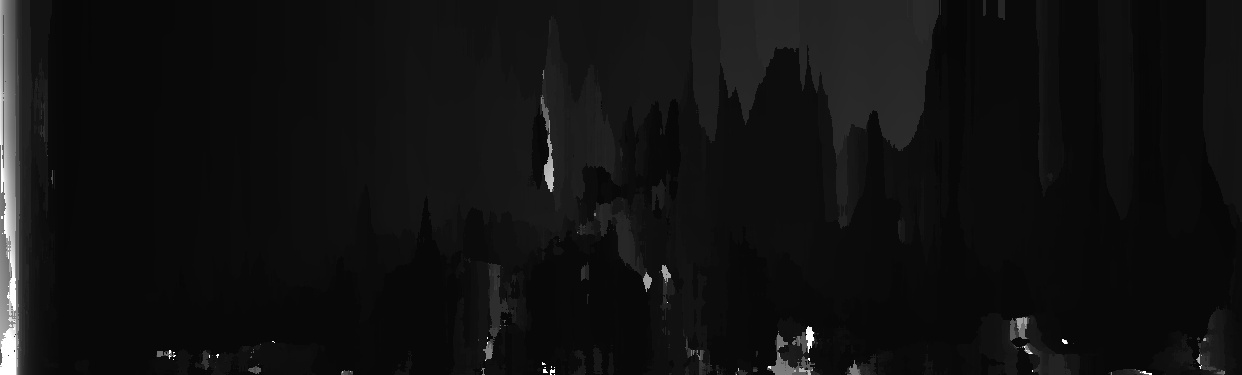
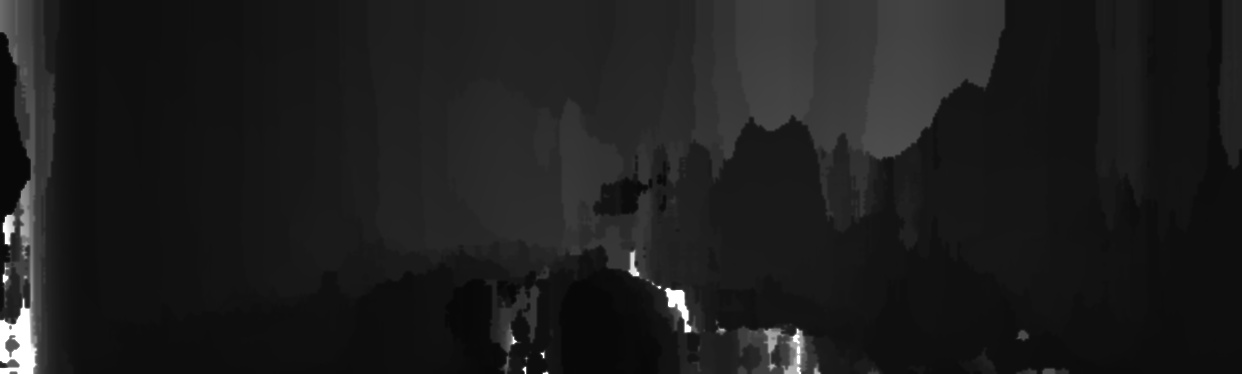
update q3

diff --git a/A4/q3/a4q3.py b/A4/q3/a4q3.py
@@ -5,21 +5,25 @@ from operator import itemgetter
 
 
 def sift(img, nfeatures=10, ct=0.04, et=5, sigma=20):
+    print("Finding Key Points ... ")
     gray = cv2.cvtColor(img, cv2.COLOR_BGR2GRAY)
     sift = cv2.xfeatures2d.SIFT_create(
         contrastThreshold=ct, edgeThreshold=et, sigma=sigma)
     kp, des = sift.detectAndCompute(gray, None)
     img = cv2.drawKeypoints(
         gray, kp, img, flags=cv2.DRAW_MATCHES_FLAGS_DRAW_RICH_KEYPOINTS)
+    print("Done finding key points")
     return kp, des, img
 
 
 def sift_color(img, nfeatures=100, ct=0.04, et=10, sigma=5):
+    print("Finding Key Points ... ")
     sift = cv2.xfeatures2d.SIFT_create(
         contrastThreshold=ct, edgeThreshold=et, sigma=sigma)
     kp, des = sift.detectAndCompute(img, None)
     img = cv2.drawKeypoints(
         img, kp, img, flags=cv2.DRAW_MATCHES_FLAGS_DRAW_RICH_KEYPOINTS)
+    print("Done finding key points")
     return kp, des, img
 
 
@@ -93,6 +97,35 @@ def match_images(img1, img2, color=False):
     return new_img
 
 
+def fm(img1, img2):
+    sf = cv.SIFT()
+    kp1, des1 = sf.detectAndCompute(img1, None)
+    kp2, des2 = sf.detectAndCompute(img2, None)
+
+    FLANN_INDEX_KDTREE = 1
+    index_params = dict(algorighm=FLANN_INDEX_KDTREE, trees=5)
+    search_params = dict(checks=50)
+
+    flann = cv2.FlannBasedMatcher(index_params, search_params)
+    matches = flann.knnMatch(des1, des2, k=2)
+
+    good = []
+    pts1 = []
+    pts2 = []
+    for i, (m, n) in enumerate(matches):
+        if m.distance < 0.8 * n.distance:
+            good.append(m)
+            pts2.append(kp2[m, trainIdx].pt)
+            pts1.append(kp1[m, queryIdx].pt)
+    pts1 = np.int32(pts1)
+    pts2 = np.int32(pts2)
+    F, mask = cv2.findFundementalMat(pts1, pts2, cv2.FM_LMEDS)
+
+    pts1 = pts1[mask.ravel() == 1]
+    pts2 = pts2[mask.ravel() == 1]
+    return pts1, pts2
+
+
 if __name__ == '__main__':
     # img1_path = './images/img1.jpeg'
     # img1_rotate_path = './images/img1_rotate.jpeg'
@@ -118,6 +151,8 @@ if __name__ == '__main__':
     img3_rotate = cv2.imread(img3_rotate_path)
     img3_moved = cv2.imread(img3_moved_path)
 
-    new_img = match_images(img3_origin, img3_rotate)
+    # (a)
+    # new_img = match_images(img3_origin, img3_rotate)
+    # cv2.imwrite('./results/img3_match_origin_rotate.jpeg', new_img)
 
-    cv2.imwrite('./results/img3_match_origin_rotate.jpeg', new_img)
+    # (b)

diff --git a/A4/q2/a4q2.py b/A4/q2/a4q2.py
@@ -5,7 +5,7 @@ import matplotlib.pyplot as plt
 import progressbar
 from scipy.ndimage.filters import gaussian_filter
 
-patch_size = 14
+patch_size = 11
 
 f = 721.537700
 px = 609.559300
@@ -91,21 +91,21 @@ def draw_box(x1, y1, x2, y2, img, thickness=0):
 # (a)
 
 
-def down_sample(img, factor=2, ite=3):
+def down_sample(img, factor=2, ite=1):
     for i in range(ite):
         height, width = img.shape[0], img.shape[1]
         img = cv.pyrDown(img, dstsize=(width // factor, height // factor))
     return img
 
 
-def up_sample(img, factor=2, ite=3):
+def up_sample(img, factor=2, ite=1):
     for i in range(ite):
         height, width = img.shape[0], img.shape[1]
         img = cv.pyrUp(img, dstsize=(width * factor, height * factor))
     return img
 
 
-def scan_all(scan_size=50, downsample=False, img1=left_grey, img2=right_grey, patch_size=patch_size):
+def scan_all(scan_size=50, downsample=True, img1=left_grey, img2=right_grey, patch_size=patch_size):
     if downsample:
         img1 = down_sample(img1)
         img2 = down_sample(img2)
@@ -207,9 +207,9 @@ def calculate_depth(diff, f=f, T=baseline):
 
 if __name__ == "__main__":
     # (a)
-    diff = scan_all()
-    depth = calculate_depth(diff)
-    save_image('./depth.jpg', depth)
-    depth2 = np.interp(depth, (depth.min(), depth.max()), (0, 255.0))
-    save_image('./depth2.jpg', depth)
+    for ps in [10, 12, 14, 16, 18, 20]:
+        diff = scan_all(patch_size=ps)
+        depth = calculate_depth(diff)
+        depth2 = np.interp(depth, (depth.min(), depth.max()), (0, 255.0))
+        save_image(f'./depth_ps{ps}.jpg', depth2)
     # (b)
